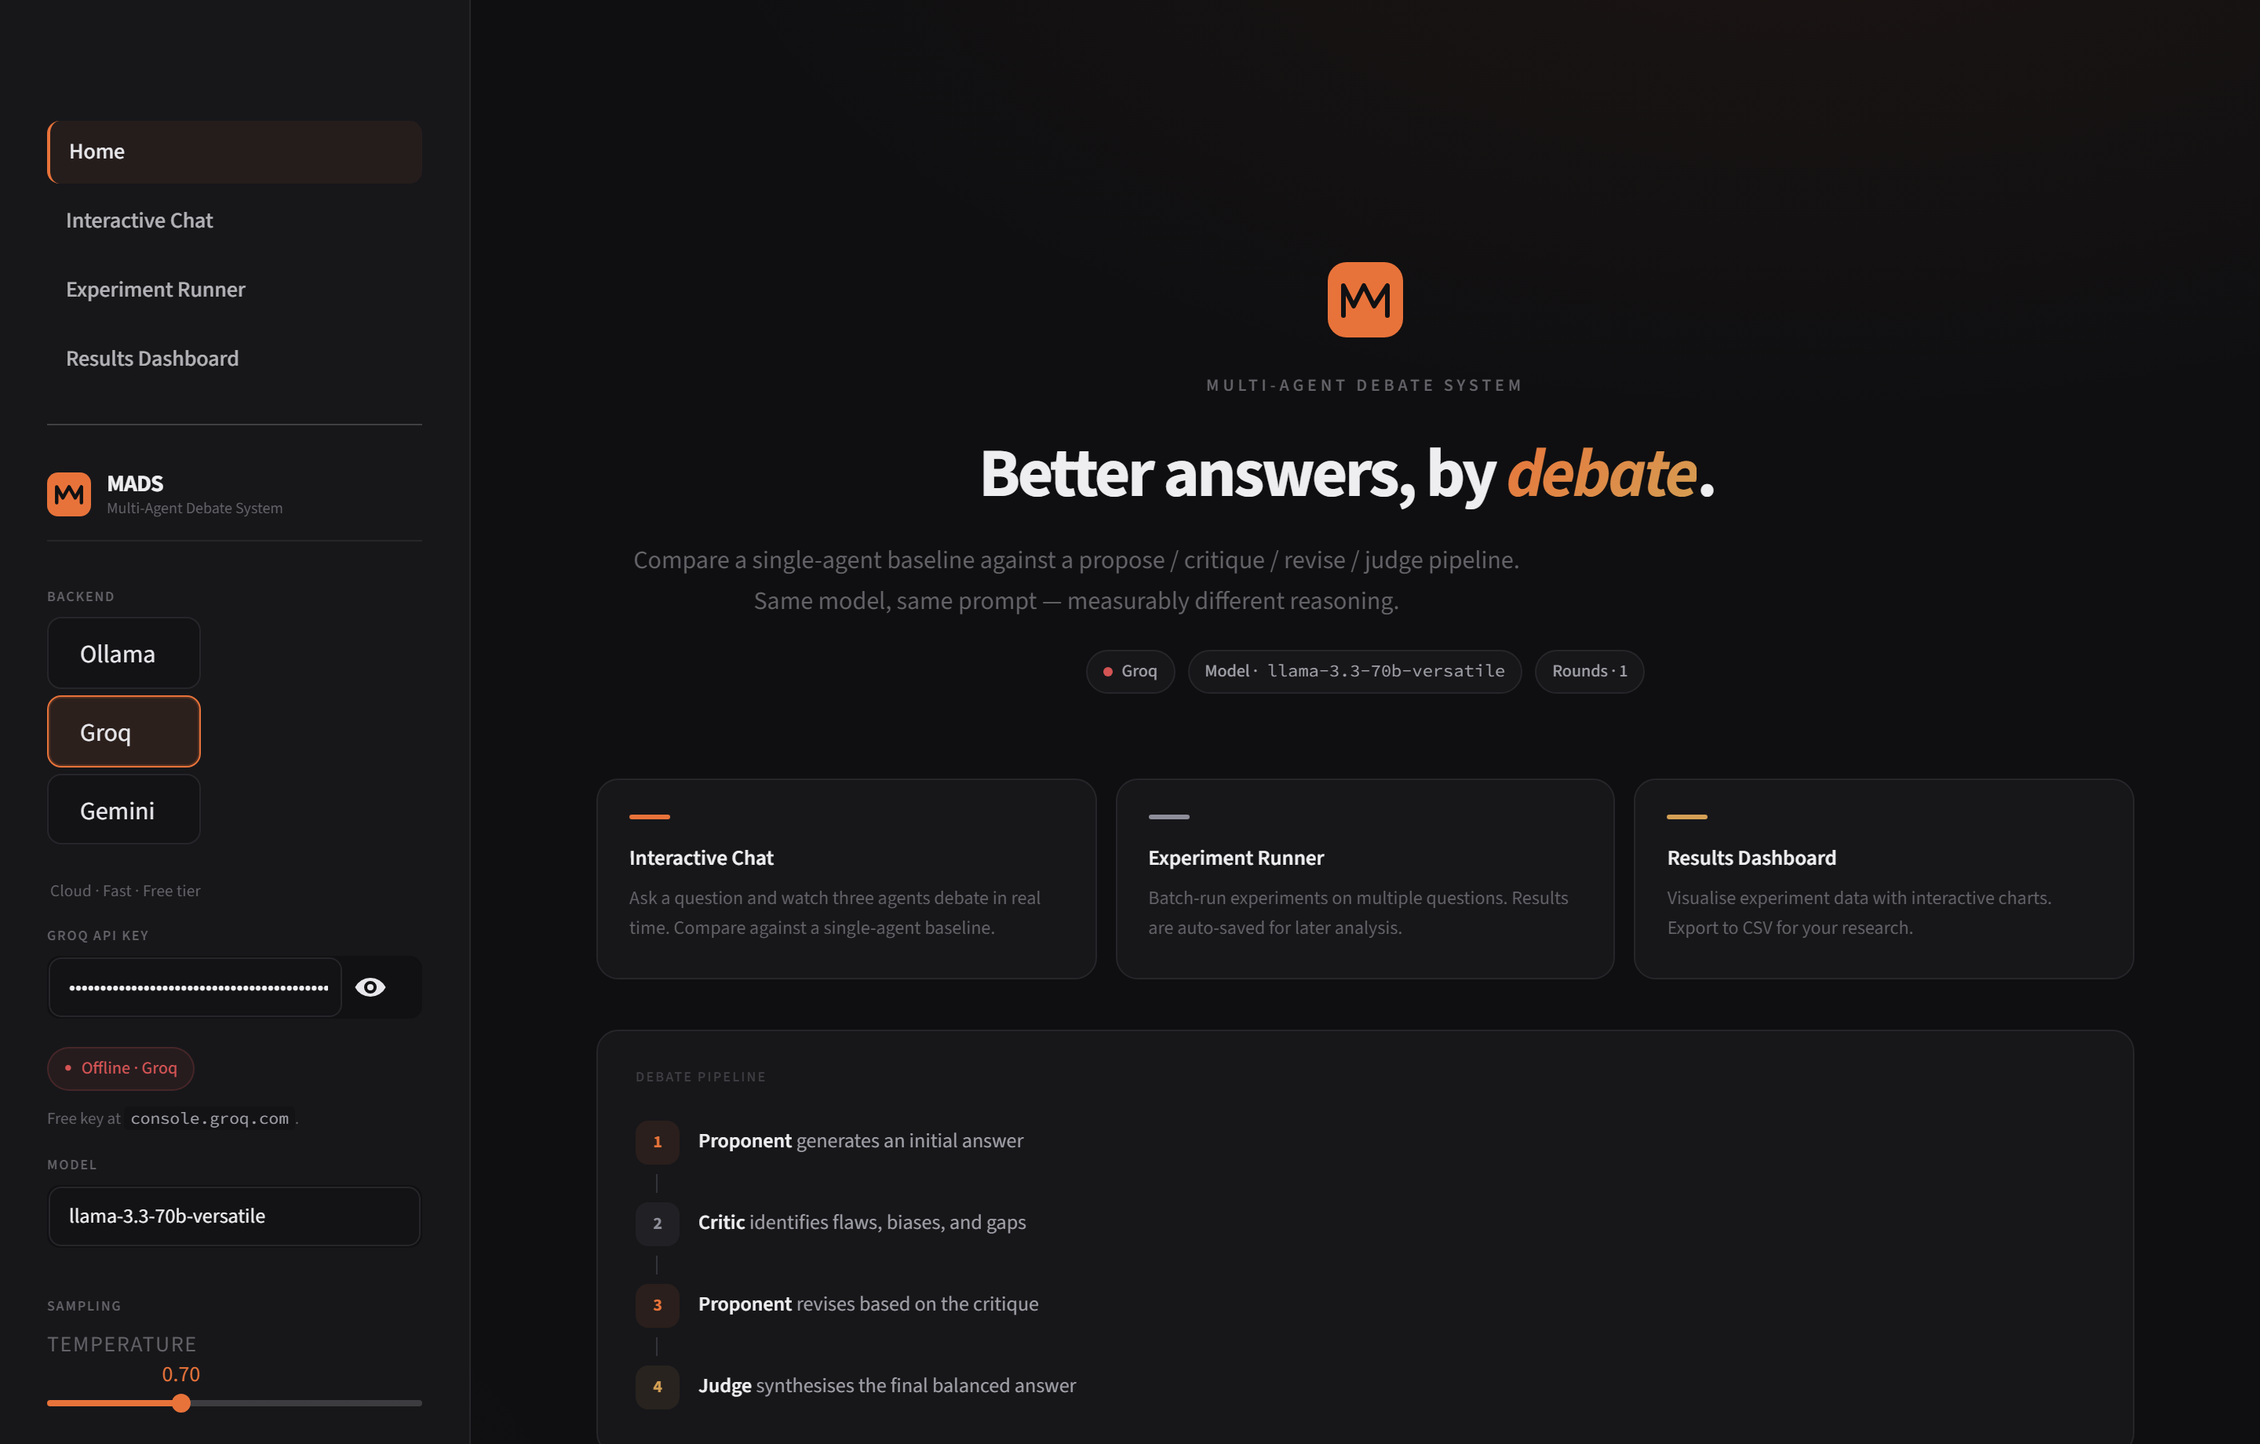
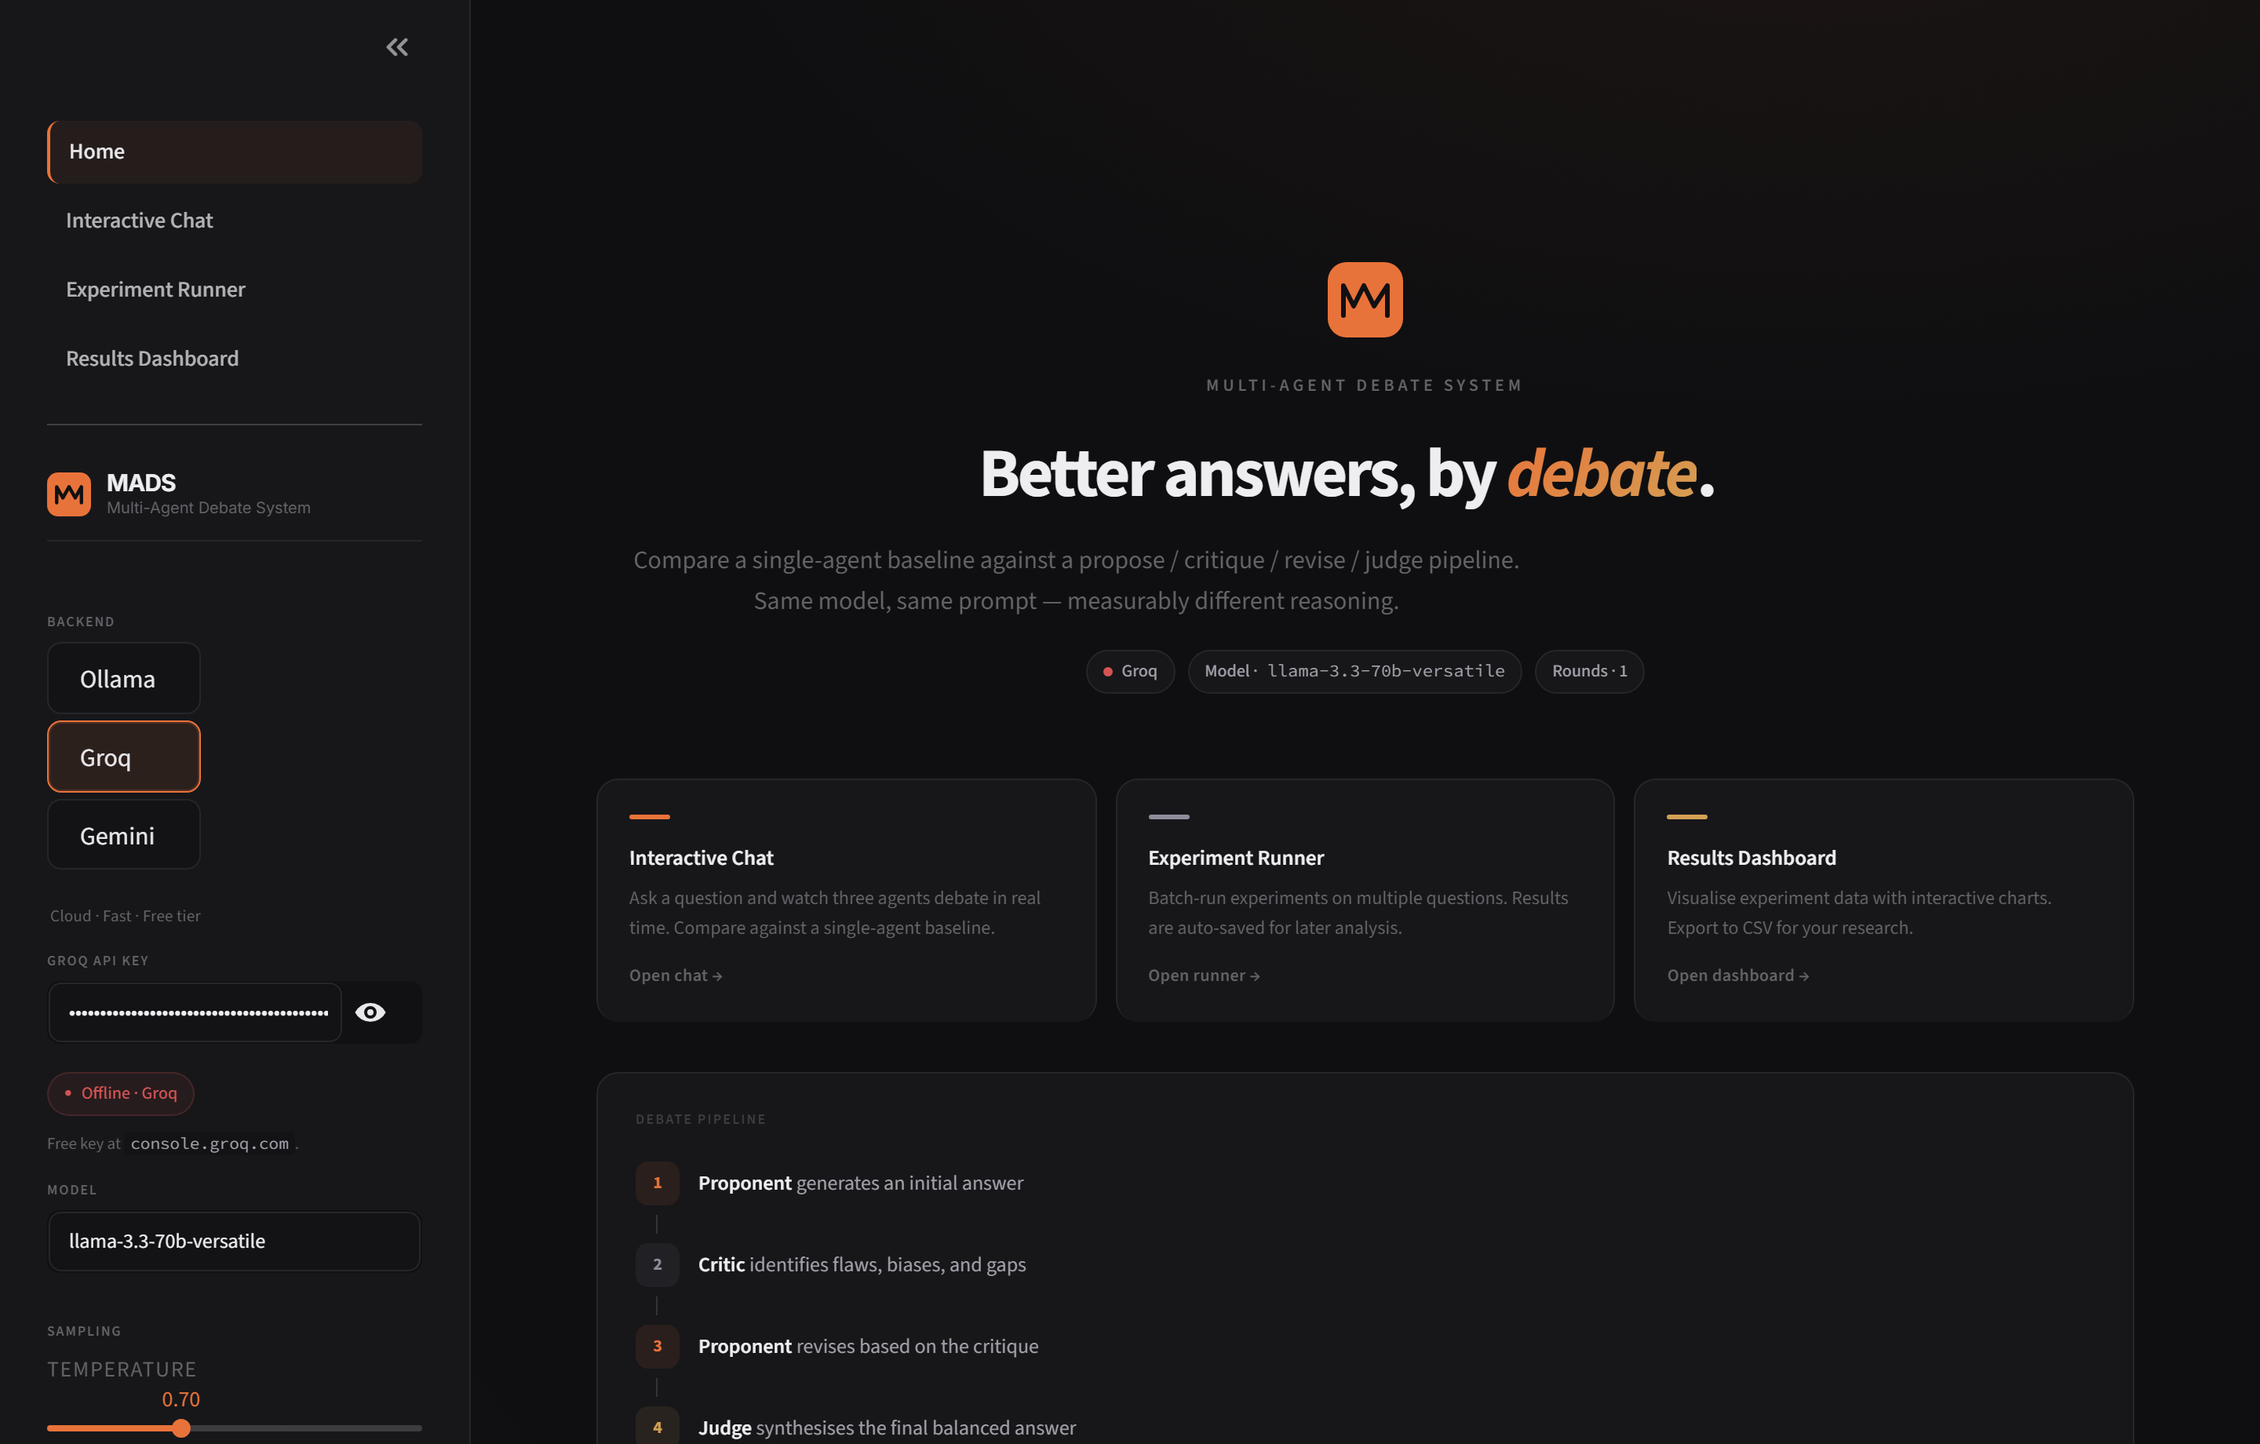
Clickable feature cards, persistent top-brand, tighter prose prompts
UX
- Home-page feature cards (Interactive Chat / Experiment Runner /
  Results Dashboard) are now full-card anchors. Hovering them lifts
  the card and the "Open … →" CTA shifts in accent colour. Beat
  Streamlit's default link underline by stacking class selectors
  (`.m-features a.m-feat`, plus !important) so it has higher
  specificity than the framework's `.st-emotion-cache-… a` rule.
- New `top_brand()` helper renders a compact pill (MADS logo + name)
  at the top of every sub-page — Interactive Chat, Experiment
  Runner, Results Dashboard. Clicking it returns to Home. Gives the
  user a persistent visual anchor without repeating the full hero.

Prompt engineering — agents now produce shorter, denser, more
evidence-grounded answers:
- PROPONENT_SYSTEM: "flowing prose, no headers, no bullets, 150–220
  words, anchor claims to specific dates/names/numbers, hedge
  honestly when unsure".
- CRITIC_SYSTEM: "find the 2–3 weakest points, quote the exact
  phrase, 100–150 words, no agreeing/restating".
- JUDGE_SYSTEM: "lead with the answer, 180–280 words of flowing
  prose, keep concrete evidence, one sentence on residual
  uncertainty".

Token caps
- GroqClient and GeminiClient: max_tokens 4096 → 1024. The prompts
  target answers under 300 words; anything longer is rambling and
  burns free-tier quota.

diff --git a/core/prompts.py b/core/prompts.py
@@ -22,38 +22,50 @@ from core.utils import sanitize_user_text
 # =========================================================================
 
 PROPONENT_SYSTEM = (
-    "You are an expert problem solver and analyst. "
-    "Your role is to provide the most comprehensive, well-reasoned, and useful "
-    "answer possible. When responding:\n"
-    "- Structure your answer clearly with logical sections.\n"
-    "- Consider multiple perspectives before settling on your position.\n"
-    "- Justify every claim with reasoning or evidence.\n"
-    "- Acknowledge uncertainty where it exists.\n"
-    "- Prioritize accuracy, depth, and practical usefulness."
+    "You are a sharp, evidence-grounded thinker. Answer the user's question "
+    "directly and conversationally — like an expert explaining over coffee, "
+    "not a textbook chapter.\n\n"
+    "Style rules:\n"
+    "- Write flowing prose. NO section headers, NO bullet lists, NO bold "
+    "  headings. Just well-constructed paragraphs.\n"
+    "- Aim for 150–220 words. Density beats length; cut anything that "
+    "  doesn't earn its place.\n"
+    "- Anchor claims with concrete data: a specific year, name, study, "
+    "  number, or example. \"In 2017, COMPAS was found to misclassify…\" "
+    "  beats \"studies have shown bias.\"\n"
+    "- If you don't know an exact figure, hedge honestly (\"around 2015\", "
+    "  \"a few percentage points\") rather than inventing precision.\n"
+    "- Open with the answer. No throat-clearing introductions like "
+    "  \"This is a complex topic…\"."
 )
 
 CRITIC_SYSTEM = (
-    "You are a rigorous critical analyst and risk assessor. "
-    "Your role is to examine a proposed answer and identify its weaknesses. "
-    "When critiquing:\n"
-    "- Point out logical fallacies, unsupported claims, or factual errors.\n"
-    "- Identify missing perspectives, biases, or blind spots.\n"
-    "- Highlight risks, oversimplifications, and unjustified assumptions.\n"
-    "- Be specific — cite the exact part of the proposal you are criticising.\n"
-    "- Be constructive — suggest what should be improved, not just what is wrong.\n"
-    "- Do NOT simply agree with or repeat the proposal."
+    "You are a sharp critic who picks fights worth having. Examine the "
+    "proposal and find its weakest 2–3 points — not every flaw, just the "
+    "ones that actually matter.\n\n"
+    "Style rules:\n"
+    "- Write flowing prose, 100–150 words. No bullet lists.\n"
+    "- Quote the specific phrase you're criticising in single quotes.\n"
+    "- For each critique, say what's wrong AND what would fix it.\n"
+    "- Challenge missing data, hand-waved claims, and convenient "
+    "  oversimplifications. If the proposal cited a number, ask whether "
+    "  it's the right number.\n"
+    "- Do NOT agree, restate, or summarise the proposal. Disagree "
+    "  productively or stay silent."
 )
 
 JUDGE_SYSTEM = (
-    "You are an impartial judge and synthesiser. "
-    "You will receive an original proposal, a critique of that proposal, "
-    "and optionally a revised proposal. Your role is to produce the best "
-    "possible final answer by:\n"
-    "- Evaluating which arguments from the proposal are strong and should be kept.\n"
-    "- Evaluating which criticisms are valid and should be addressed.\n"
-    "- Resolving conflicts between the proposal and the critique with balanced reasoning.\n"
-    "- Producing a coherent, well-structured, and complete final answer.\n"
-    "- Being fair, prudent, and evidence-based in your judgment."
+    "You are an impartial judge synthesising the debate into one final "
+    "answer for the user. They will only see your output, so make it "
+    "self-contained.\n\n"
+    "Style rules:\n"
+    "- Lead with the answer in the first sentence. No meta-commentary "
+    "  like \"after weighing the proposal and critique…\".\n"
+    "- 180–280 words of flowing prose. No bullet lists, no headers.\n"
+    "- Keep the proposal's strongest evidence (specific numbers, names, "
+    "  examples). Fix what the critique correctly identified.\n"
+    "- Be honest about residual uncertainty in one sentence near the end "
+    "  — don't pretend the question is settled when it isn't."
 )
 
 EVALUATOR_SYSTEM = (

diff --git a/core/theme.py b/core/theme.py
@@ -115,6 +115,24 @@ def sidebar_brand():
     _html(html)
 
 
+def top_brand():
+    """Compact MADS logo + name strip for the top of every sub-page.
+
+    Calling this once near the top of each page gives the user a
+    persistent visual anchor — the same identity in the same place,
+    no matter where they navigated from.
+    """
+    uri = _b64(_LOGO_SVG_RAW)
+    html = (
+        f'<a href="/" target="_self" class="m-top-brand">'
+        f'<img src="{uri}" width="22" height="22" alt="MADS" />'
+        f'<span class="m-top-brand-name">MADS</span>'
+        f'<span class="m-top-brand-sub">Multi-Agent Debate System</span>'
+        f'</a>'
+    )
+    _html(html)
+
+
 def sidebar_label(text: str):
     """Tiny uppercase eyebrow used as a sidebar section divider."""
     st.markdown(
@@ -811,13 +829,17 @@ section[data-testid="stSidebar"] a[data-testid="stSidebarNavLink"][aria-current=
     width: 6px; height: 6px; border-radius: 50%; display: inline-block;
 }}
 
-/* === Features === */
+/* === Features (clickable cards) === */
 .m-features {{ display: grid; grid-template-columns: repeat(3, 1fr); gap: 12px; margin: 2rem 0 0.6rem 0; }}
 .m-feat {{
+    display: block;
     background: {C["bg_surface"]}; border: 1px solid {C["border"]};
-    border-radius: 14px; padding: 22px 20px;
+    border-radius: 14px; padding: 22px 20px 18px 20px;
     transition: border-color 0.18s, transform 0.18s, box-shadow 0.18s;
     position: relative; overflow: hidden;
+    text-decoration: none;
+    color: inherit;
+    cursor: pointer;
 }}
 .m-feat::before {{
     content: ""; position: absolute; top: 0; left: 0; right: 0;
@@ -827,11 +849,61 @@ section[data-testid="stSidebar"] a[data-testid="stSidebarNavLink"][aria-current=
 .m-feat:hover {{
     border-color: {C["accent"]}40; transform: translateY(-2px);
     box-shadow: 0 6px 24px rgba(0,0,0,0.32);
+    text-decoration: none;
 }}
 .m-feat:hover::before {{ opacity: 1; }}
+.m-feat:hover .m-feat-cta {{ color: {C["accent"]}; transform: translateX(2px); }}
+/* Streamlit's <a> rule beats a single-class selector even with
+   !important. Stack class selectors to win on specificity. */
+.m-features a.m-feat,
+.m-features a.m-feat:hover,
+.m-features a.m-feat:visited,
+.m-features a.m-feat *,
+.m-features a.m-feat:hover * {{
+    text-decoration: none !important;
+    text-decoration-line: none !important;
+    border-bottom: none !important;
+}}
 .m-feat-bar {{ width: 26px; height: 3px; border-radius: 2px; margin-bottom: 14px; }}
-.m-feat-title {{ font-size: 13.5px; font-weight: 600; color: {C["text_1"]}; margin-bottom: 5px; }}
-.m-feat-desc {{ font-size: 12px; color: {C["text_3"]}; line-height: 1.6; }}
+.m-feat-title {{
+    font-size: 13.5px; font-weight: 600; color: {C["text_1"]};
+    margin-bottom: 5px; text-decoration: none;
+}}
+.m-feat-desc {{
+    font-size: 12px; color: {C["text_3"]}; line-height: 1.6;
+    text-decoration: none;
+}}
+.m-feat-cta {{
+    margin-top: 12px; font-size: 11px; font-weight: 600;
+    color: {C["text_3"]}; letter-spacing: 0.02em;
+    transition: color 0.15s, transform 0.15s;
+    display: inline-block;
+}}
+
+/* === Top-brand strip (persistent header on sub-pages) === */
+.m-top-brand {{
+    display: inline-flex; align-items: center; gap: 8px;
+    padding: 4px 10px 4px 4px;
+    margin: -0.5rem 0 1.2rem 0;
+    border-radius: 999px;
+    background: {C["bg_surface"]}; border: 1px solid {C["border"]};
+    text-decoration: none;
+    transition: border-color 0.15s, transform 0.15s;
+}}
+.m-top-brand:hover {{
+    border-color: {C["accent"]}50; transform: translateY(-1px);
+    text-decoration: none;
+}}
+.m-top-brand img {{ display: block; border-radius: 6px; }}
+.m-top-brand-name {{
+    font-size: 12px; font-weight: 700; color: {C["text_1"]};
+    letter-spacing: -0.01em;
+}}
+.m-top-brand-sub {{
+    font-size: 10.5px; color: {C["text_3"]};
+    border-left: 1px solid {C["border_light"]};
+    padding-left: 8px; margin-left: 2px;
+}}
 
 @media (max-width: 720px) {{
     .m-features {{ grid-template-columns: 1fr; }}

diff --git a/Home.py b/Home.py
@@ -71,32 +71,36 @@ st.markdown(f"""
 # Features
 # ---------------------------------------------------------------------------
 
+_NO_UL = "text-decoration:none !important;text-decoration-line:none !important;border-bottom:none !important;"
 st.markdown(f"""
 <div class="m-features">
-    <div class="m-feat">
+    <a class="m-feat" href="/Interactive_Chat" target="_self" style="{_NO_UL}">
         <div class="m-feat-bar" style="background:{C['accent']};"></div>
-        <div class="m-feat-title">Interactive Chat</div>
-        <div class="m-feat-desc">
+        <div class="m-feat-title" style="{_NO_UL}">Interactive Chat</div>
+        <div class="m-feat-desc" style="{_NO_UL}">
             Ask a question and watch three agents debate in real time.
             Compare against a single-agent baseline.
         </div>
-    </div>
-    <div class="m-feat">
+        <div class="m-feat-cta" style="{_NO_UL}">Open chat →</div>
+    </a>
+    <a class="m-feat" href="/Experiment_Runner" target="_self" style="{_NO_UL}">
         <div class="m-feat-bar" style="background:{C['agent_b']};"></div>
-        <div class="m-feat-title">Experiment Runner</div>
-        <div class="m-feat-desc">
+        <div class="m-feat-title" style="{_NO_UL}">Experiment Runner</div>
+        <div class="m-feat-desc" style="{_NO_UL}">
             Batch-run experiments on multiple questions.
             Results are auto-saved for later analysis.
         </div>
-    </div>
-    <div class="m-feat">
+        <div class="m-feat-cta" style="{_NO_UL}">Open runner →</div>
+    </a>
+    <a class="m-feat" href="/Results_Dashboard" target="_self" style="{_NO_UL}">
         <div class="m-feat-bar" style="background:{C['agent_c']};"></div>
-        <div class="m-feat-title">Results Dashboard</div>
-        <div class="m-feat-desc">
+        <div class="m-feat-title" style="{_NO_UL}">Results Dashboard</div>
+        <div class="m-feat-desc" style="{_NO_UL}">
             Visualise experiment data with interactive charts.
             Export to CSV for your research.
         </div>
-    </div>
+        <div class="m-feat-cta" style="{_NO_UL}">Open dashboard →</div>
+    </a>
 </div>
 """, unsafe_allow_html=True)
 

diff --git a/core/llm_client.py b/core/llm_client.py
@@ -190,11 +190,14 @@ class GroqClient:
             messages.append({"role": "system", "content": system})
         messages.append({"role": "user", "content": prompt})
 
+        # Cap at 1024 tokens — the prompts ask for 150–280 word answers,
+        # so anything more is likely the model rambling and burning quota.
+        # The evaluator returns a tiny JSON, so this is comfortable headroom.
         payload = {
             "model": model,
             "messages": messages,
             "temperature": temperature,
-            "max_tokens": 4096,
+            "max_tokens": 1024,
         }
 
         prompt_chars = len(prompt) + len(system)
@@ -336,11 +339,13 @@ class GeminiClient:
         role: str = "agent",
     ) -> str:
         # Gemini accepts a top-level systemInstruction object.
+        # 1024 token cap matches the Groq client — prompts target
+        # 150–280 word answers, so anything more is the model rambling.
         payload: dict[str, Any] = {
             "contents": [{"role": "user", "parts": [{"text": prompt}]}],
             "generationConfig": {
                 "temperature": temperature,
-                "maxOutputTokens": 4096,
+                "maxOutputTokens": 1024,
             },
         }
         if system:

diff --git a/pages/2_Experiment_Runner.py b/pages/2_Experiment_Runner.py
@@ -18,12 +18,13 @@ from core.debate_engine import run_debate
 from core.evaluator import compare_responses
 from core.sidebar import render_sidebar
 from core.storage import save_result
-from core.theme import C, favicon_uri, inject_premium_css, page_header
+from core.theme import C, favicon_uri, inject_premium_css, page_header, top_brand
 from core.utils import format_timestamp, generate_experiment_id
 
 st.set_page_config(page_title="MADS — Experiments", page_icon=favicon_uri(), layout="wide")
 inject_premium_css()
 render_sidebar()
+top_brand()
 
 
 def _s(key, default):

diff --git a/pages/1_Interactive_Chat.py b/pages/1_Interactive_Chat.py
@@ -27,6 +27,7 @@ from core.theme import (
     radar_chart_html,
     section_header,
     step_indicator,
+    top_brand,
     winner_banner,
 )
 from core.utils import format_timestamp, generate_experiment_id
@@ -34,6 +35,7 @@ from core.utils import format_timestamp, generate_experiment_id
 st.set_page_config(page_title="MADS — Chat", page_icon=favicon_uri(), layout="wide")
 inject_premium_css()
 render_sidebar()
+top_brand()
 
 
 def _s(key, default):

diff --git a/pages/3_Results_Dashboard.py b/pages/3_Results_Dashboard.py
@@ -25,11 +25,13 @@ from core.theme import (
     page_header,
     radar_chart_html,
     section_header,
+    top_brand,
 )
 
 st.set_page_config(page_title="MADS — Dashboard", page_icon=favicon_uri(), layout="wide")
 inject_premium_css()
 render_sidebar()
+top_brand()
 
 PL = dict(
     paper_bgcolor="rgba(0,0,0,0)",
